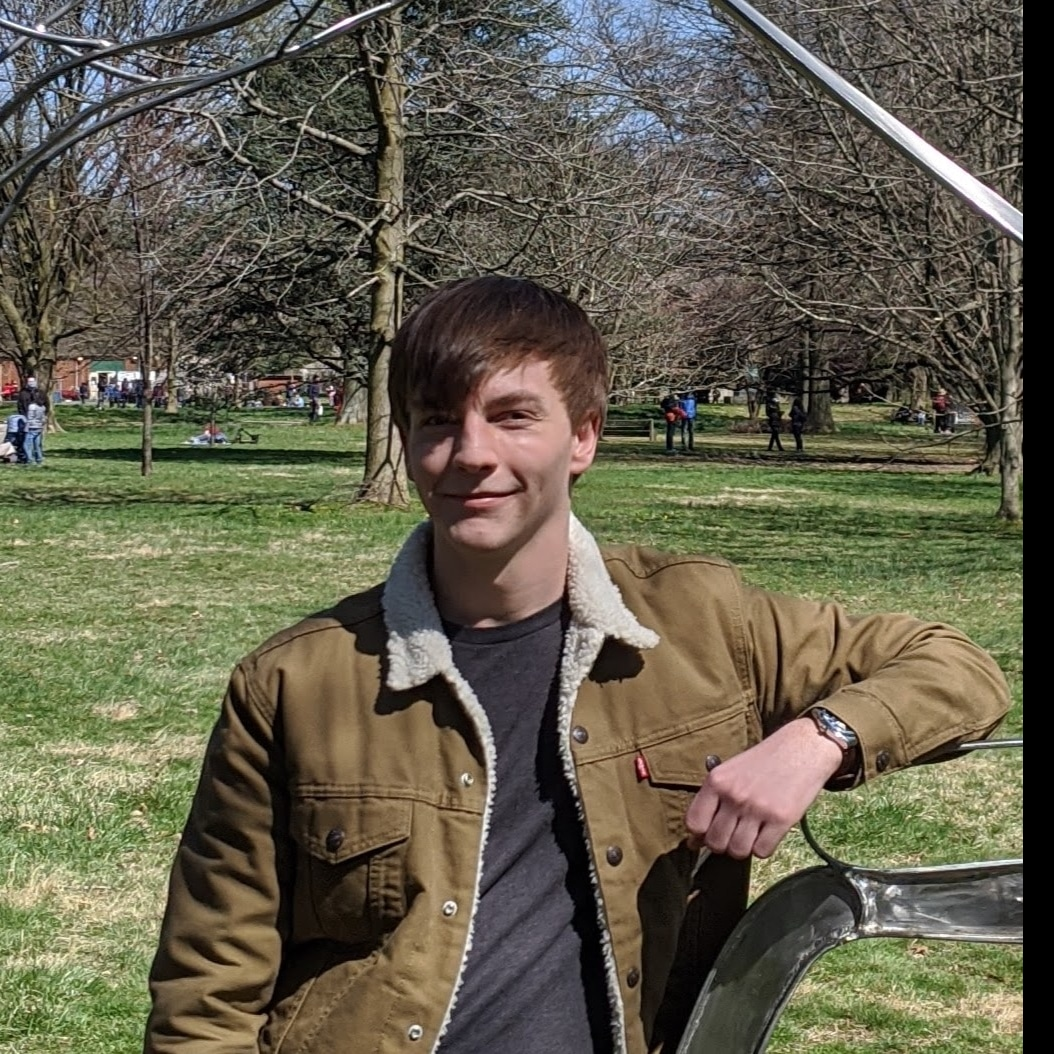
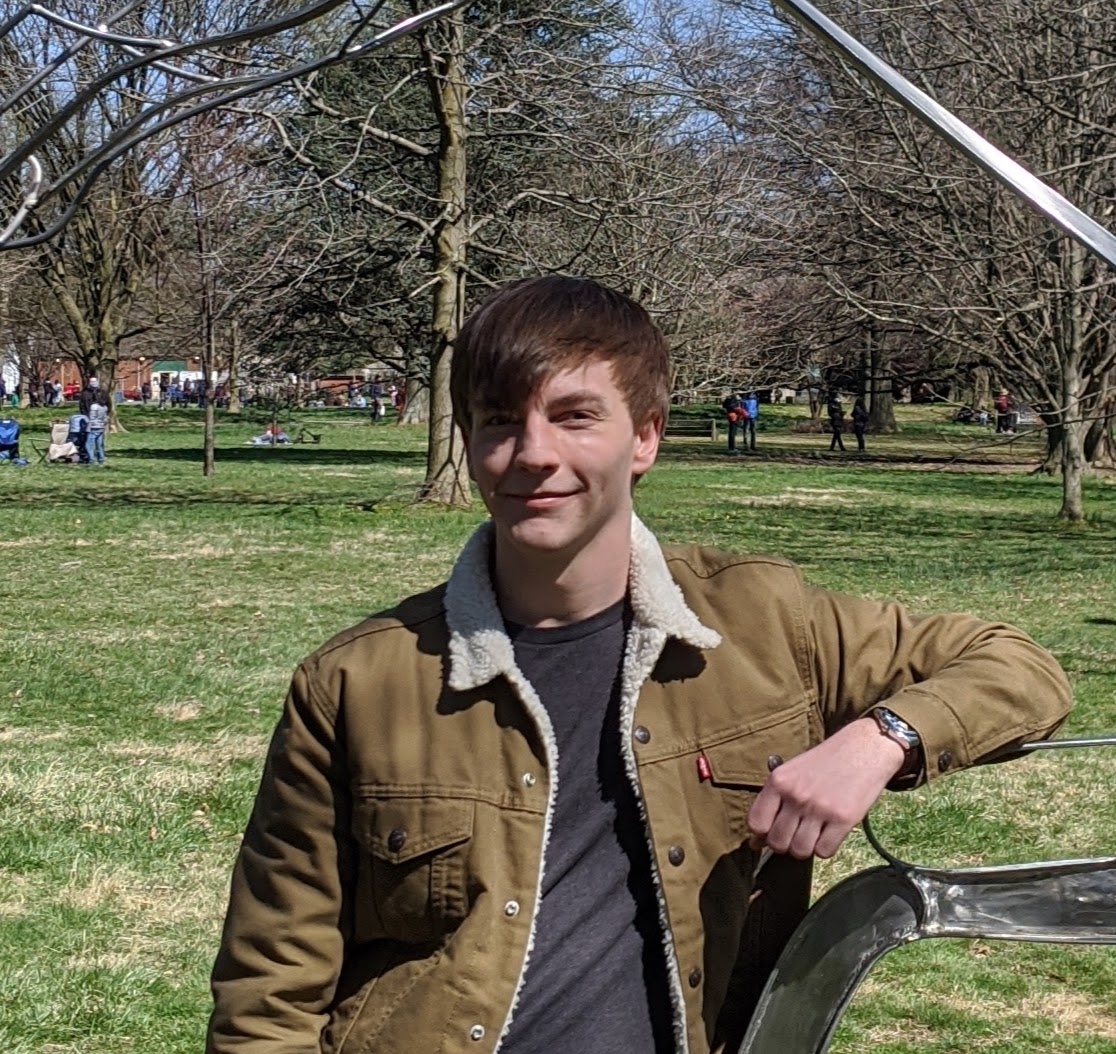
format contact page

diff --git a/contact.html b/contact.html
@@ -42,25 +42,34 @@
       </div>
     </div>
 
-    <div class="content-wrapper">
-      <div class="two-column-wrapper">
+    <div class="contact-page-wrapper">
+      <div class="contact-two-column-wrapper">
         <div class="profile-image-wrapper">
-          <img src="images/profile.jpg">
+          <div class="padded-image">
+            <img src="images/profile.jpg">
+          </div>
         </div>
         
         <div class="profile-content-wrapper">
-          <h1>BS student in Computer Science</h1>
-          <p>Rutgers University</p> 
-          <p>drp155 [at] rutgers [dot] edu</p>
-          <a href="https://github.com/davidp799">[ GitHub ]</a> 
-          <a href="https://www.linkedin.com/in/david-pape-jr/">[ LinkedIn ]</a>
-          <p>I enjoy solving problems in theoretical computer science and real life application through urban computing and informatics.</p>
-          <p>I am particularly interested in the societal impact of data-driven algorithms and AI, especially in the context of the urban environment.</p> 
-          <p>In addition to computer science and mathematics, I spend my time practicing piano and music, hiking and exploring, and at home in a lovely neighborhood of Philadelphia with my wonderful partner and dog.</p> 
+          <div class="profile-header">
+            <h1>BS student in Computer Science</h1>
+            <div class="profile-subtext">
+              <p>Rutgers University</p> 
+              <p>drp155 [at] rutgers [dot] edu</p>
+            </div>
+            <div class="profile-links">
+              <a href="https://github.com/davidp799">[ GitHub ]</a> 
+              <a href="https://www.linkedin.com/in/david-pape-jr/">[ LinkedIn ]</a>
+            </div>
+          </div>
+          <div class="profile-body">
+            <p>I enjoy solving problems in theoretical computer science and real life application through urban computing and informatics.</p>
+            <p>I am particularly interested in the societal impact of data-driven algorithms and AI, especially in the context of the urban environment.</p> 
+            <p>In addition to computer science and mathematics, I spend my time practicing piano and music, hiking and exploring, and at home in a lovely neighborhood of Philadelphia with my wonderful partner and dog.</p> 
+          </div>
         </div>
       </div>
     </div>
-
   </div>
 </body>
 

diff --git a/styles.css b/styles.css
@@ -14,7 +14,7 @@ body {
 .nav-wrapper {
     display: flex;
     justify-content: space-between;
-    padding: 38px;
+    padding: 26px;
 }
 .nav-divider {
     display: flex;
@@ -121,38 +121,47 @@ body {
 }
 
 /* Contact page */
-.two-column-wrapper {
-    display: grid;
-    grid-template-columns: 1fr 1fr;
-}
+.contact-page-wrapper {
+    background-color: #282A35;
+    height: 80vh;
 
+}
+.contact-two-column-wrapper {
+    display: flex;
+}
 .profile-image-wrapper img {
-    display: inline-block;
     width: 300px;
     height: 300px;
-    border-radius: 50%;
-
     object-fit: cover;
-}
 
+}
 .profile-content-wrapper {
+    height: 80vh;
     padding: 30px;
+    flex: 50%;
+    background-color: #f3ecea;
 }
-
-.profile-content-wrapper h1 {
-    color: lightseagreen;
+.profile-header {
+    color: black
 }
-
+.profile-subtext {
+    color: black
+}
+.profile-links {
+    color: black;
+}
+profile-body {
+    background-color: #eceaf3;
+}
+.padded-image {
+    padding: 60px;
+}
 img {
     width:100%;
     max-width: 750px;
-    padding: 60px;
-}
+    border: 4px solid #eceaf3;
+    border-radius: 50%;
 
-/* Projects Page */
-.three-column-wrapper {
-    display: grid;
-    grid-template-columns: 1fr 1fr 1fr;
 }
 
 /* Tell It For Me Page */
